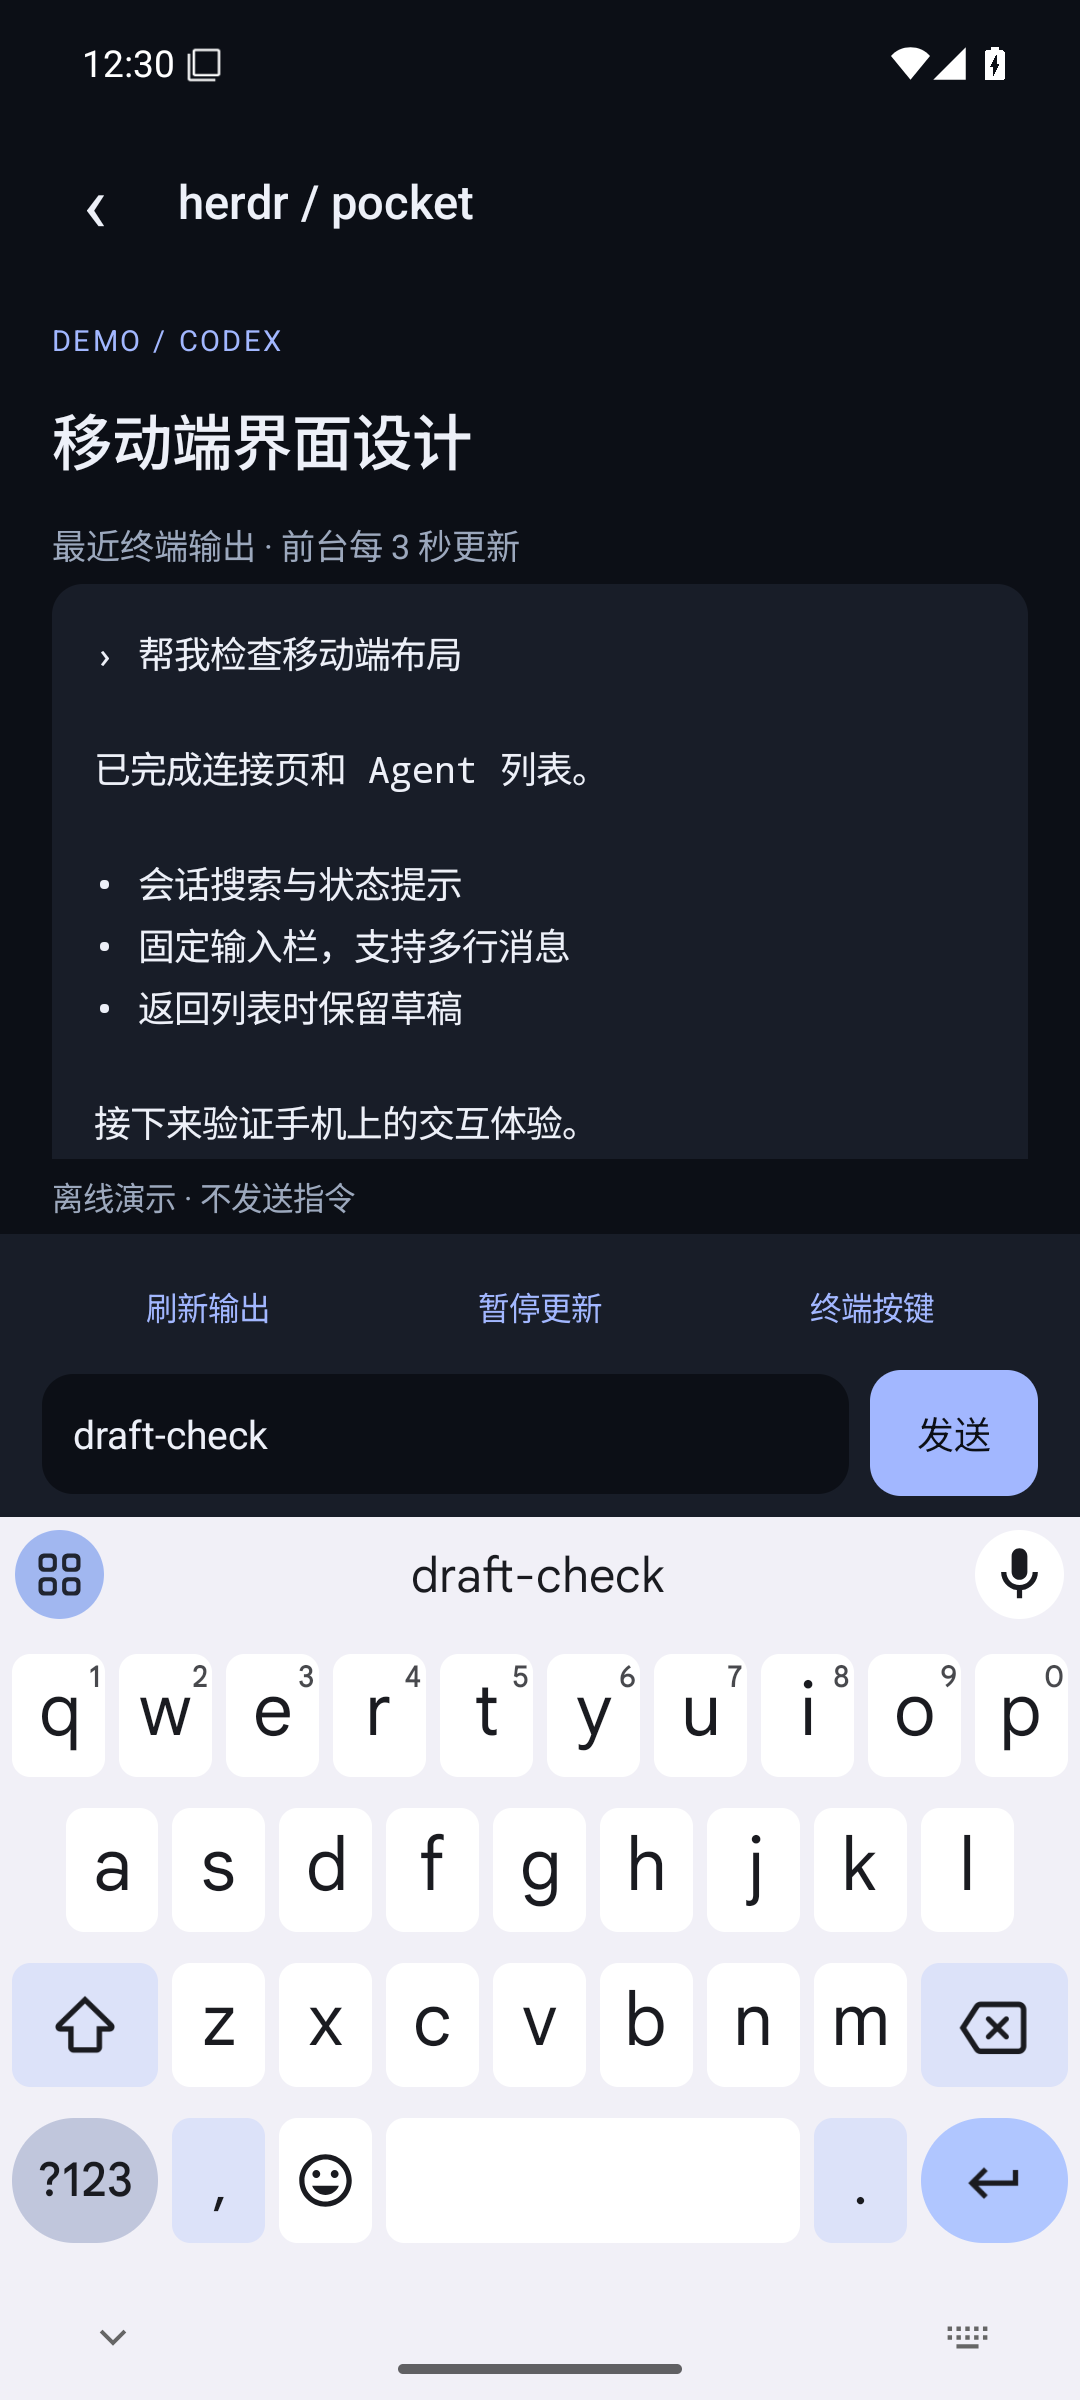
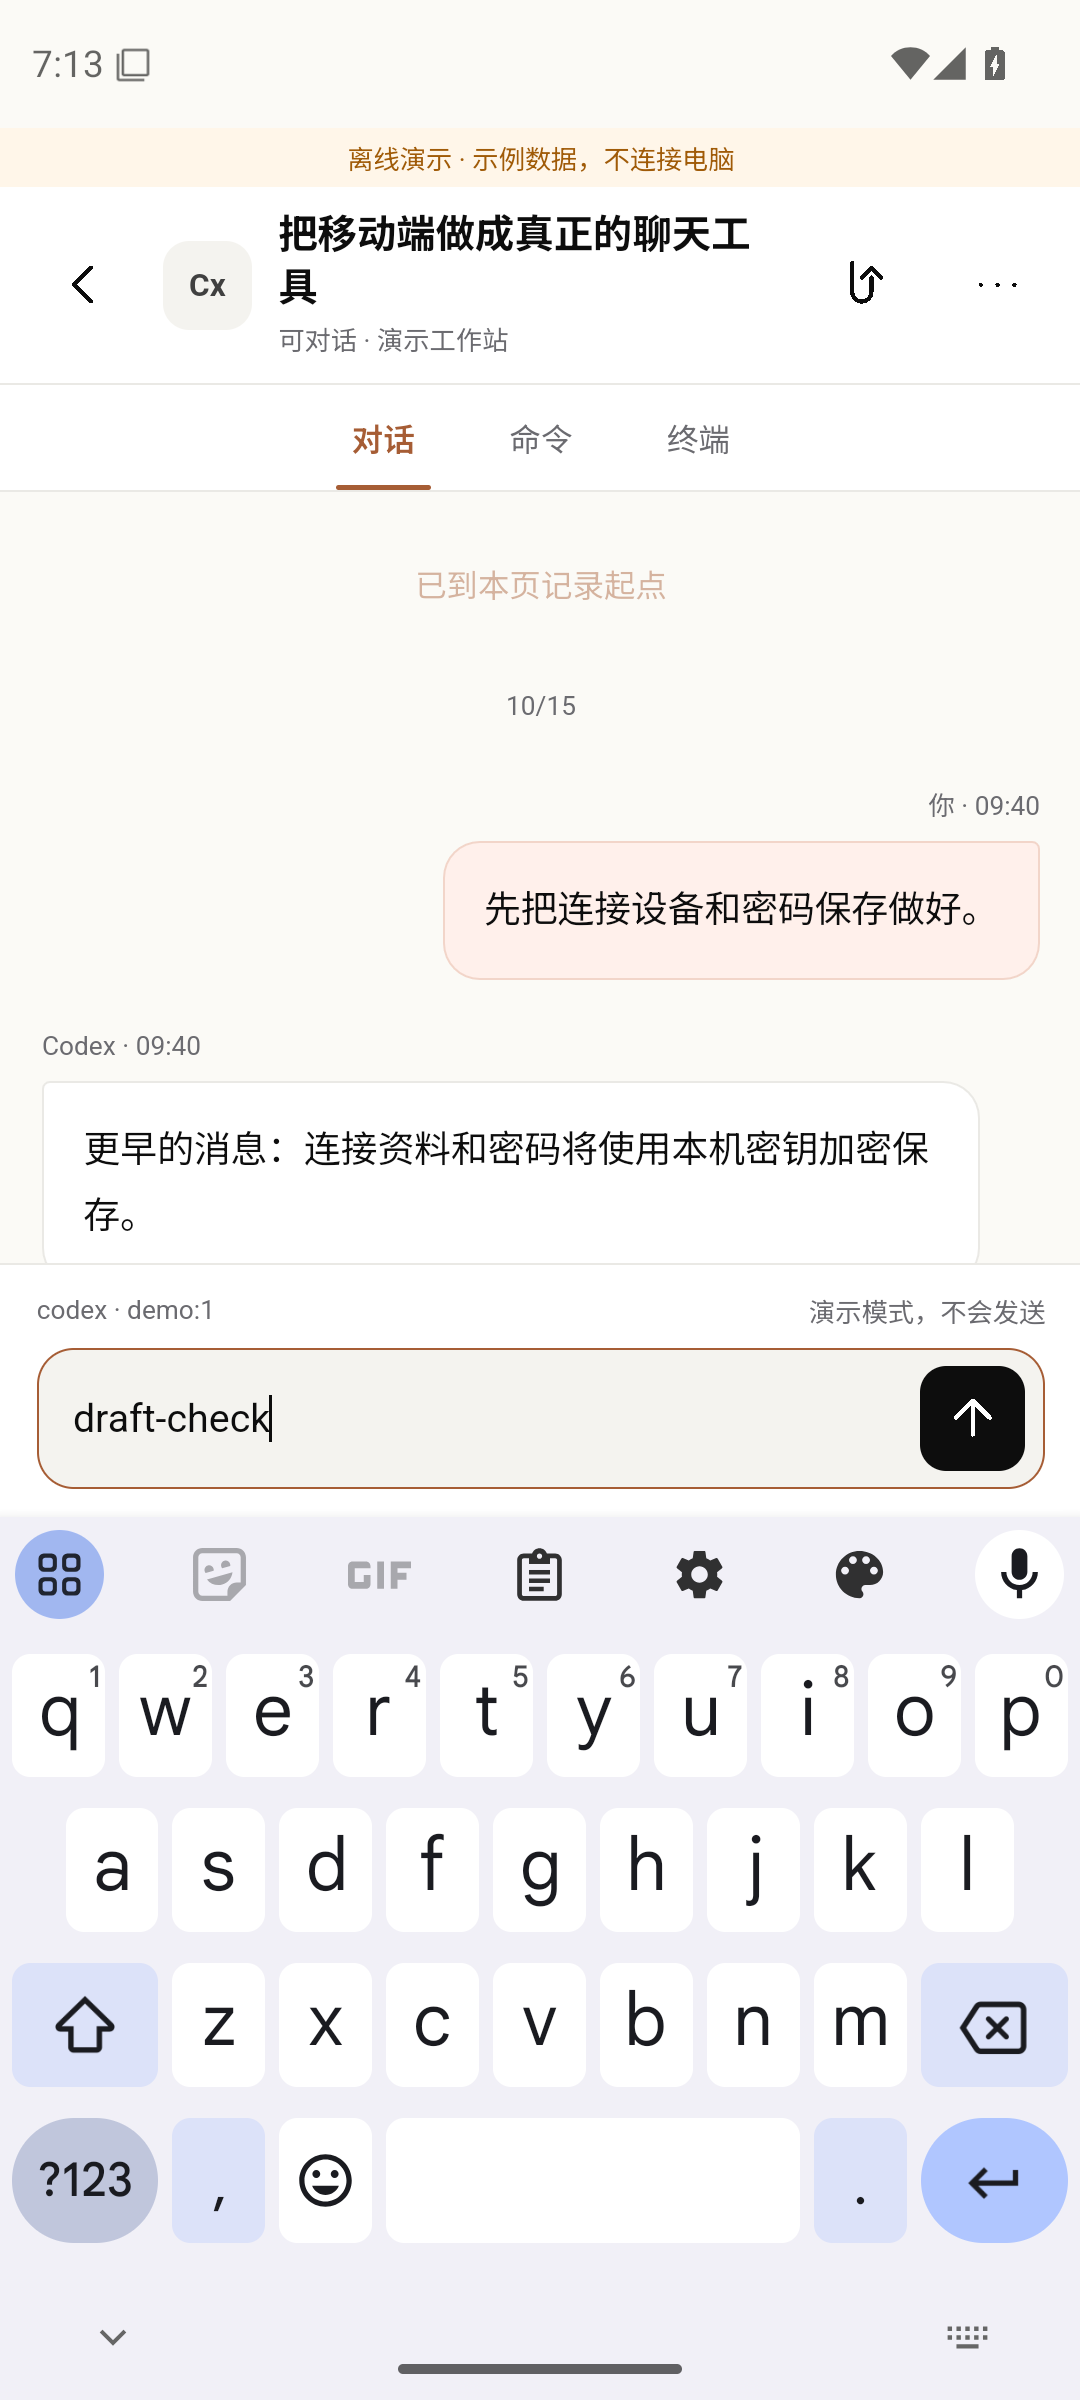
Document verified Host-style Android release and screenshots [skip ci]

diff --git a/docs/VALIDATION.md b/docs/VALIDATION.md
@@ -1,3 +1,20 @@
+# v0.3.0 chat and Host-style validation (2026-10-15)
+
+Validated source: `9edfe3c`. [CI and automatic release](https://github.com/HFO4AR/herdr-pocket/actions/runs/38696764336).
+
+- Host App default light/coral style: warm paper background, coral selections, ink primary actions, shared font order and 10/14/20 px geometry; mobile chat layout and touch targets remain. Dark theme selection is not included.
+- PASS: 24 Python bridge regressions covering read-only history parsing/pagination, parent-child links, path boundaries, tool results and existing mutation safeguards.
+- PASS: Browser tests for saved-device form, chat, older history, tools/results, independent child records, draft retention, explicit history binding when Herdr session ID is absent, 320 px width, landscape/tablet and reduced motion. Browser screenshots were visually inspected.
+- PASS: Local Android debug and instrumentation APK builds.
+- Local read-only checks parsed Codex and Claude records including tool outputs and parent-child metadata. The bridge only reads history roots; account information is SSH username/hostname only. No provider login files were read and no real Agent received prompts or keys.
+- NOT VERIFIED: Physical phone, real APK SSH/SFTP operations, prompt/key delivery or foreground polling over the user's Sakura Frp tunnel. The offline tests do not certify those paths.
+- Saved devices and opted-in passwords survive process restart using Android Keystore AES-GCM. Active SSH connections and in-memory drafts still end on process death. Child/archive views are read-only; sending requires a validated live pane.
+
+- PASS: CI Android lint/debug/release builds and API 35 emulator: two real Keystore tests, process restart with saved device/password, chat/history pagination, command results, child isolation, draft retention, keyboard, rotation and SSH info. Native chat, keyboard and landscape screenshots inspected.
[1 lines of base64/hex data omitted]
+
+---
+
 # v0.2.0 redesign validation (2026-10-14)
 
 Validated source: `97ded4a`. [Successful CI and automatic release](https://github.com/HFO4AR/herdr-pocket/actions/runs/38563814065).
